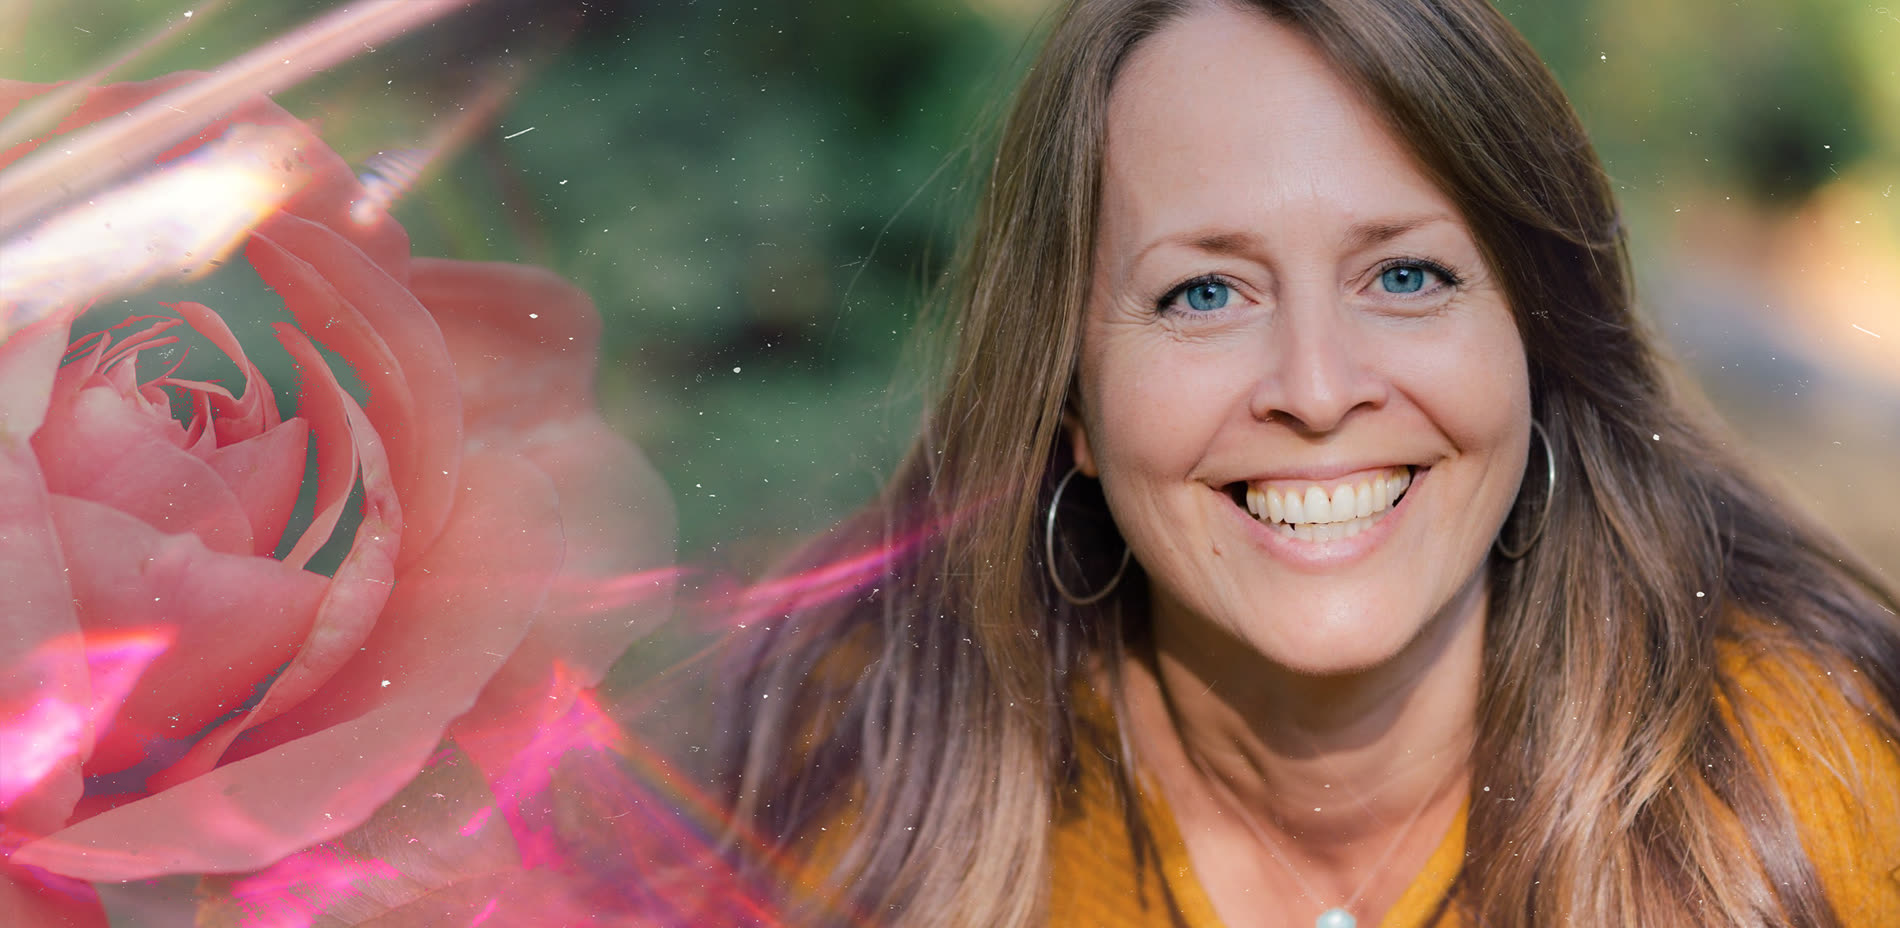
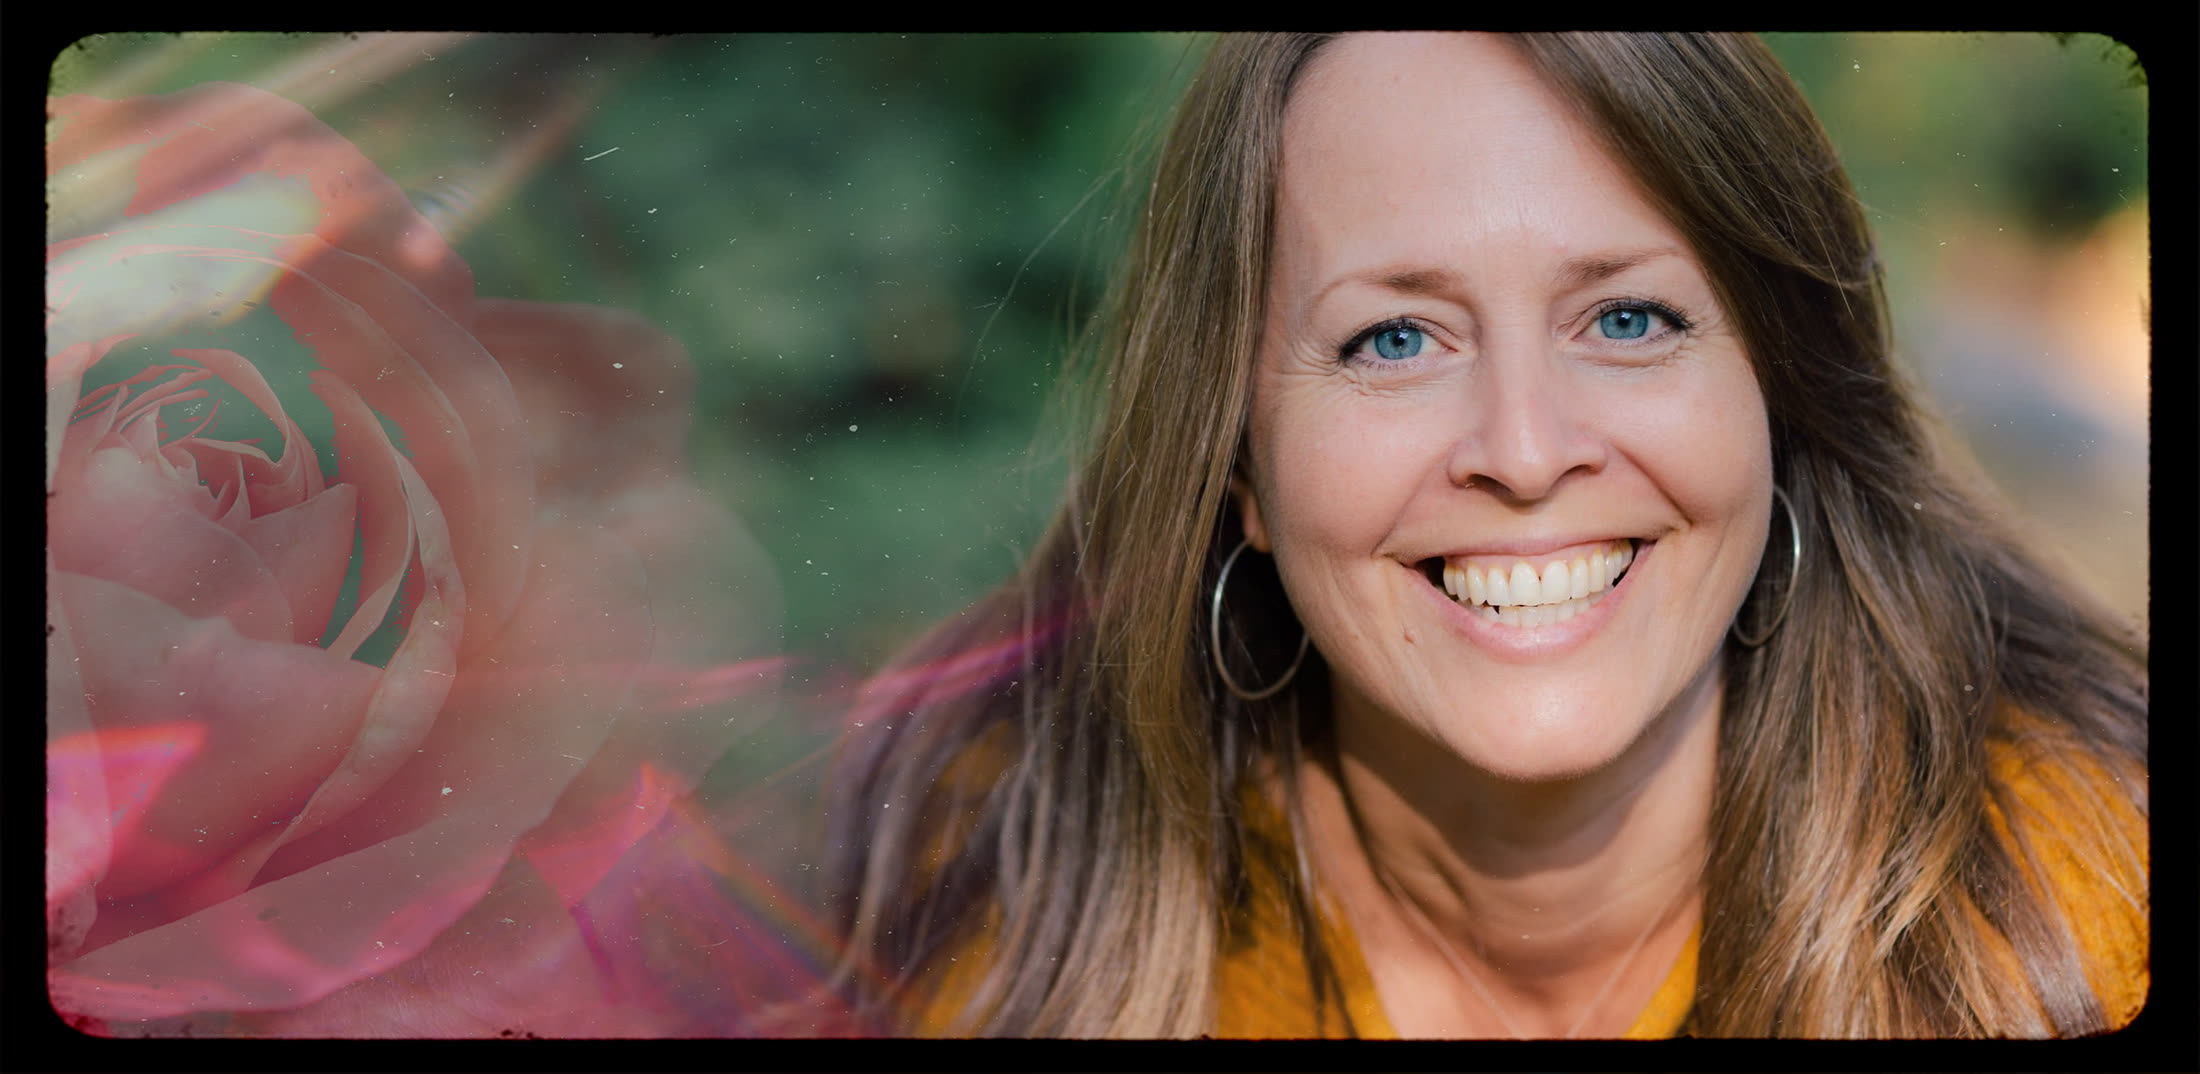
Erin: full-bleed hero, edge to edge under the nav

diff --git a/clients/erinnorthcott/index.html b/clients/erinnorthcott/index.html
@@ -8,7 +8,7 @@
   <link rel="preconnect" href="https://fonts.googleapis.com" />
   <link rel="preconnect" href="https://fonts.gstatic.com" crossorigin />
   <link href="https://fonts.googleapis.com/css2?family=Fraunces:ital,opsz,wght@0,9..144,400;0,9..144,500;0,9..144,600;1,9..144,300;1,9..144,400;1,9..144,500&family=JetBrains+Mono:wght@300;400;500&family=Caveat:wght@500;600;700&family=Karla:wght@300..700&family=Permanent+Marker&display=swap" rel="stylesheet" />
-  <link rel="stylesheet" href="style.css?v=100" />
+  <link rel="stylesheet" href="style.css?v=102" />
 </head>
 <body>
   <!-- Arrival: a luminous veil that dissolves on load — you cross a threshold -->
@@ -72,7 +72,7 @@
     <!-- SUNRISE — you land inside the film: Daniel's own footage, first frame -->
     <section class="section section--hero" id="sunrise">
       <div class="hero">
-        <img class="hero__portrait" src="images/hero-erin.jpg" alt="Erin Northcott" fetchpriority="high" decoding="async" width="1900" height="928" />
+        <img class="hero__portrait" src="images/hero-erin.jpg" alt="Erin Northcott" fetchpriority="high" decoding="async" width="2200" height="1074" />
       </div>
     </section>
 
@@ -241,14 +241,14 @@
     <img src="images/starskissingme2.jpg" alt="" loading="lazy" decoding="async" />
   </div>
 
-  <script src="sky.js?v=100" defer></script>
+  <script src="sky.js?v=102" defer></script>
   <script src="stars.js" defer></script>
-  <script src="motes.js?v=100" defer></script>
-  <script src="cursor.js?v=100" defer></script>
-  <script src="petals.js?v=100" defer></script>
-  <script src="bloom.js?v=100" defer></script>
-  <script src="letters.js?v=100" defer></script>
-  <script src="sound.js?v=100" defer></script>
-  <script src="reveal.js?v=100" defer></script>
+  <script src="motes.js?v=102" defer></script>
+  <script src="cursor.js?v=102" defer></script>
+  <script src="petals.js?v=102" defer></script>
+  <script src="bloom.js?v=102" defer></script>
+  <script src="letters.js?v=102" defer></script>
+  <script src="sound.js?v=102" defer></script>
+  <script src="reveal.js?v=102" defer></script>
 </body>
 </html>

diff --git a/clients/erinnorthcott/style.css b/clients/erinnorthcott/style.css
@@ -355,16 +355,36 @@ body {
   padding-top: clamp(4rem, 9vh, 7rem);
   padding-bottom: clamp(4rem, 9vh, 7rem);
 }
-/* Erin is the landing again — the rose collage, wide, held in the sunrise */
-:root { --hero-w: min(92vw, 76vh * 2.048, 1500px); }
-.hero { max-width: var(--hero-w); position: relative; z-index: 2; margin: 0 auto; }
+/* Erin is the landing: full bleed, edge to edge, filling the screen under
+   the nav. The bar is fixed, so the hero reserves its height as padding. */
+.section--hero {
+  min-height: 100vh;
+  padding: 0;
+  justify-content: flex-start;
+}
+.hero {
+  max-width: none;
+  width: 100%;
+  margin: 0;
+  position: relative;
+  z-index: 2;
+  padding-top: var(--nav-h, 4.2rem);
+}
 .hero__portrait {
   display: block;
   width: 100%;
-  height: auto;
-  aspect-ratio: 2400 / 1172;
+  height: calc(100vh - var(--nav-h, 4.2rem));
   object-fit: cover;
-  box-shadow: 0 22px 54px rgba(74,42,20,.24);
+  object-position: 58% 50%;        /* keep her face in frame as it crops */
+}
+/* A 2:1 collage can't fill a phone screen without cropping to a sliver, so on
+   narrow viewports the hero gives back some height and centres on her face. */
+@media (max-width: 720px) {
+  .section--hero { min-height: 0; }
+  .hero__portrait {
+    height: 68vh;
+    object-position: 70% 44%;
+  }
 }
 
 /* the film keeps its own stage, one scroll in */
@@ -374,9 +394,7 @@ body {
   padding-bottom: clamp(3.5rem, 9vh, 6.5rem);
 }
 .section--film .filmframe { width: 100%; max-width: min(92vw, 1100px); margin: 0 auto; }
-@media (max-width: 720px) {
-  .section--hero { min-height: 0; }
-}
+
 
 /* soft cloud banks on either side of the sunrise hero — you enter between them */
 .hero__clouds { position: absolute; inset: 0; z-index: 0; pointer-events: none; overflow: hidden; }

diff --git a/clients/erinnorthcott/reveal.js b/clients/erinnorthcott/reveal.js
@@ -1,5 +1,20 @@
-/* reveal.js — fade-up on scroll. */
+/* reveal.js — fade-up on scroll, plus the one measurement the layout needs. */
 (function () {
+
+  /* ---- --nav-h: the fixed bar's real height ------------------------------
+     The hero sits under the bar and needs to reserve exactly its height. That
+     changes with the breakpoint (the links wrap to two rows on a phone), so it
+     is measured rather than guessed. */
+  const bar = document.querySelector('.nav');
+  if (bar) {
+    const measure = () => {
+      document.documentElement.style.setProperty('--nav-h', bar.offsetHeight + 'px');
+    };
+    measure();
+    if ('ResizeObserver' in window) new ResizeObserver(measure).observe(bar);
+    else window.addEventListener('resize', measure, { passive: true });
+    window.addEventListener('load', measure);
+  }
 
   /* ---- fade-up on scroll ------------------------------------------------ */
   const revealables = document.querySelectorAll('.reveal');
